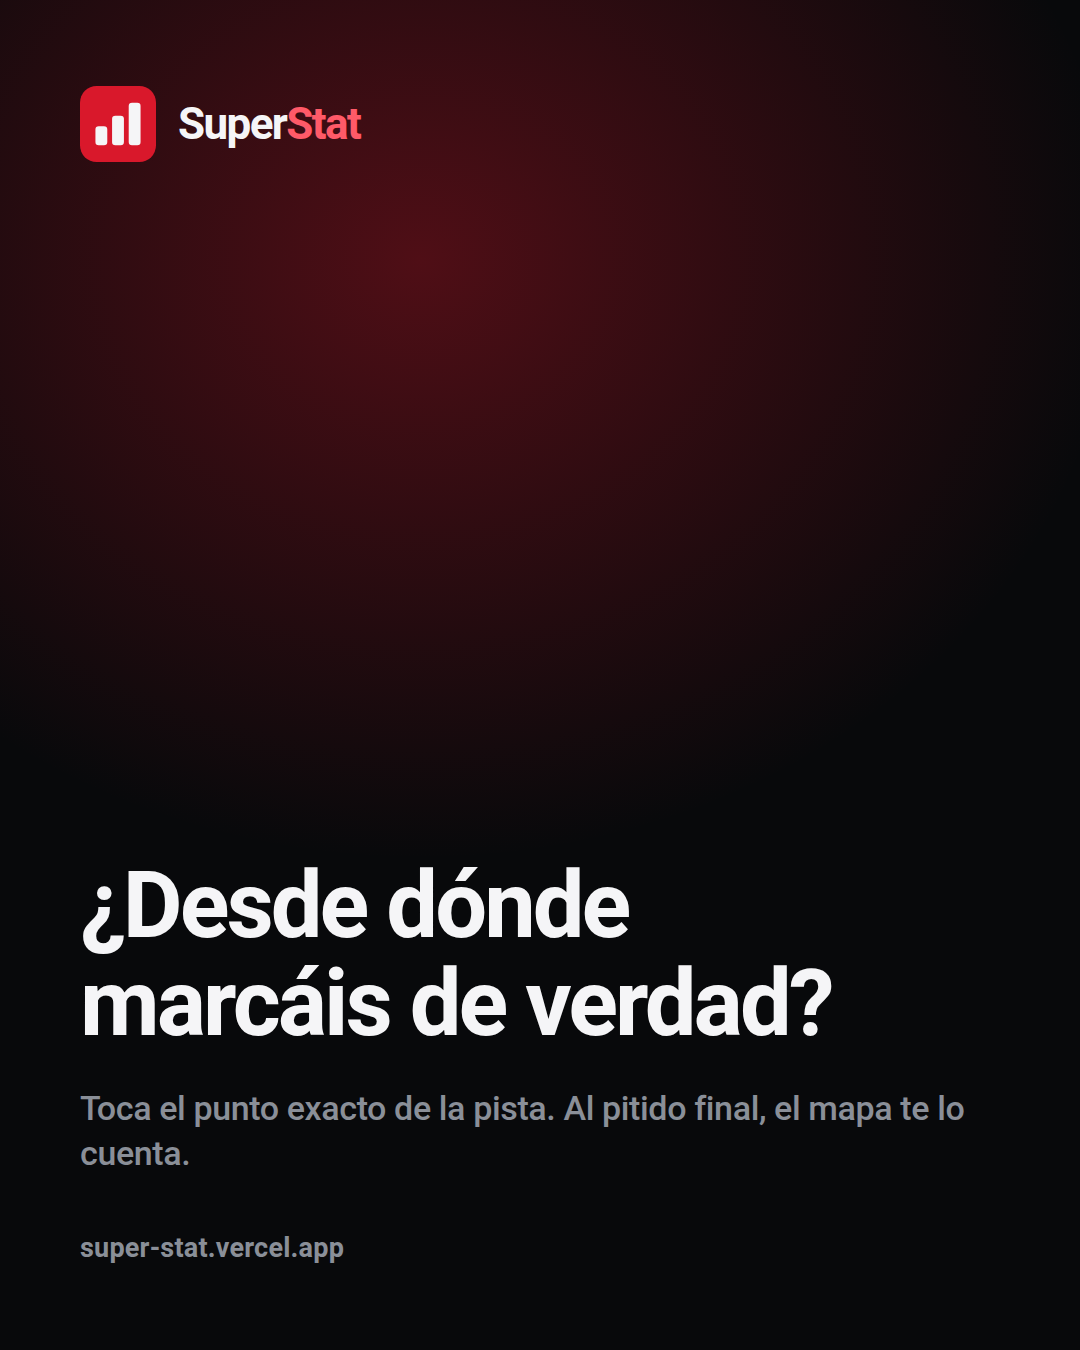
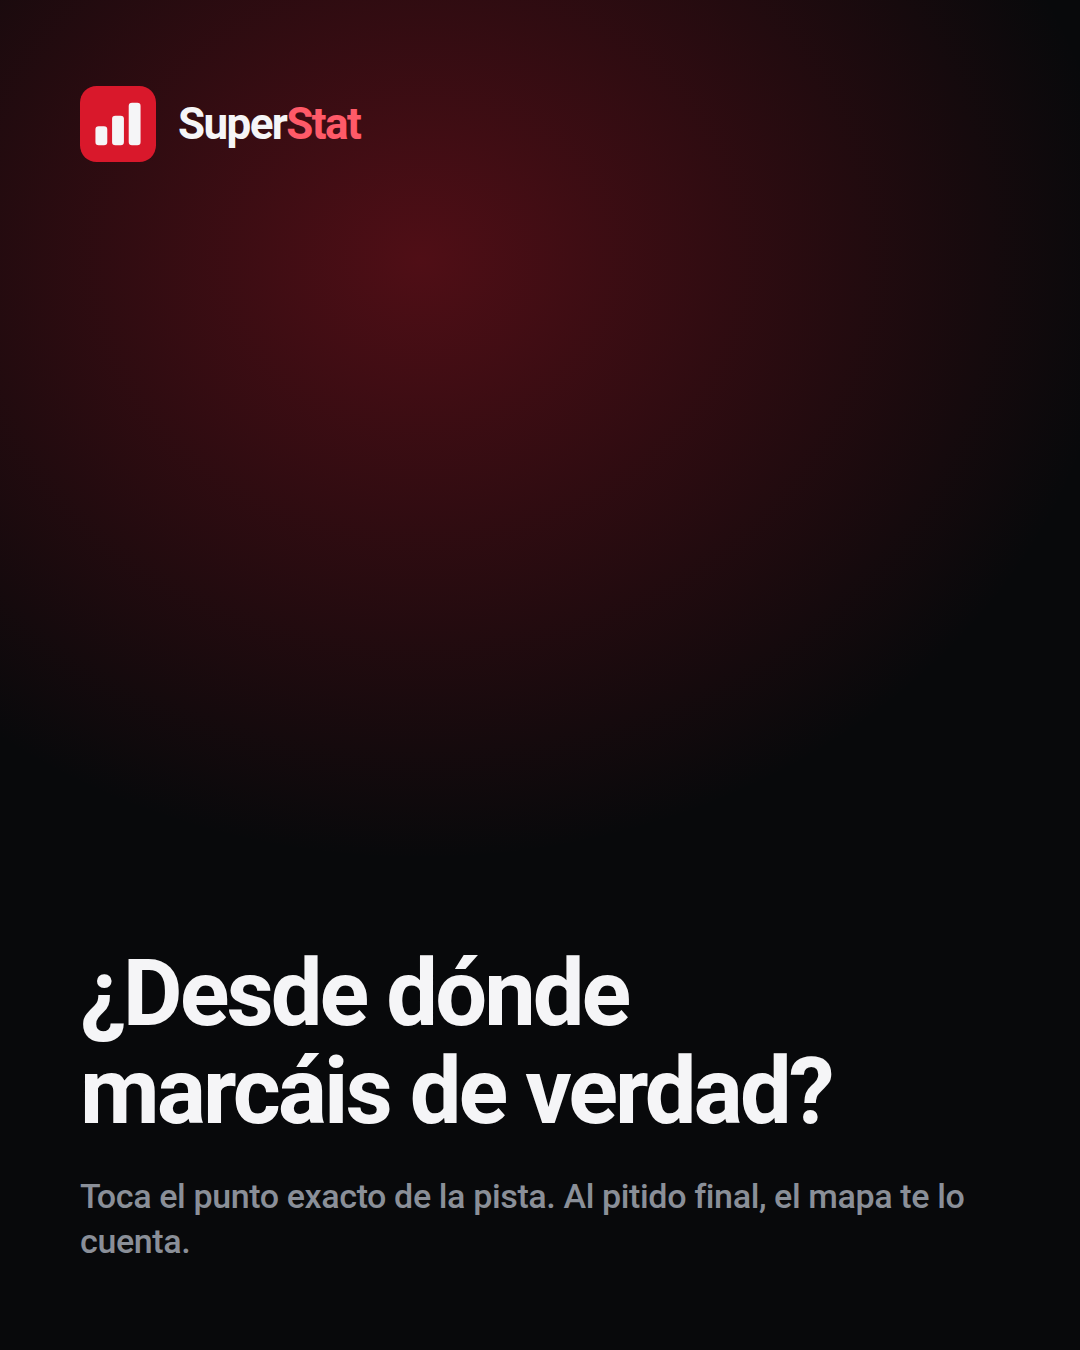
Quita la dirección web de las portadas de Instagram
El enlace ya va en la biografía de la cuenta, que es donde Instagram lo hace
clicable; dentro de la imagen no se puede pulsar y solo restaba sitio al
titular.

Claude-Session: https://claude.ai/code/session_01N7n2VcSwHKiZSUUCHo5Yk2

Changed region(s): [[0.0611, 0.6222, 0.8861, 0.9333]]

diff --git a/tools/make-instagram-assets.js b/tools/make-instagram-assets.js
@@ -154,8 +154,6 @@ const ESTILO = `
         line-height:1.06; }
     .pie{ font-size:34px; font-weight:500; color:${GRIS}; letter-spacing:-0.4px;
           line-height:1.32; margin-top:34px; }
-    .url{ font-size:27px; font-weight:600; color:${GRIS}; letter-spacing:0.2px;
-          margin-top:56px; }
 
     /* Lámina de captura: rótulo arriba y el móvil debajo, centrado. */
     .rotulo{ font-size:40px; font-weight:700; letter-spacing:-1.2px; margin-top:40px; }
@@ -184,7 +182,6 @@ function portadaHtml(post){
       <div class="bloque">
         <h1>${post.titulo.map(esc).join('<br>')}</h1>
         <div class="pie">${esc(post.pie)}</div>
-        <div class="url">super-stat.vercel.app</div>
       </div>
     </div>
   `;
